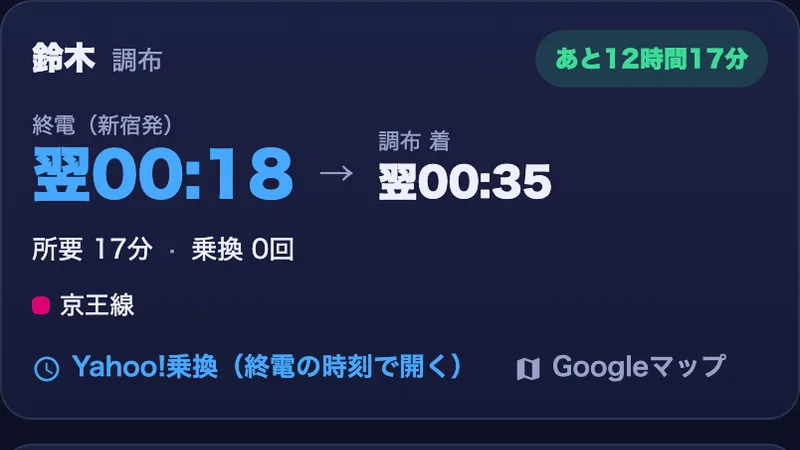
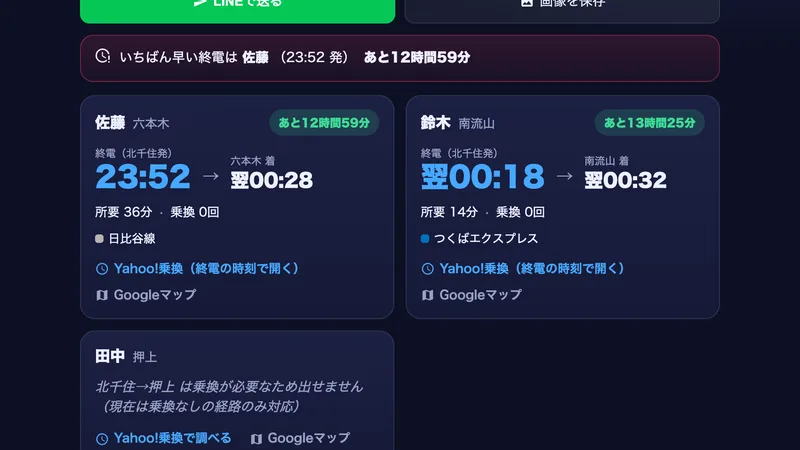
Update: worksの画像を実際のアプリ画面にし、公開リンクを追加
カード画像のうち3件が、内容の伝わらないものだった。実際に
アプリを動かして撮り直した。

  typing-engineer  … CSSを打ち込んでプレビューが組み上がる画面
  shuden-board     … 3人ぶんのシュウデンが並んだボード
  roguelike-game   … ダンジョンの探索画面(ドット絵の実画面)

typing-engineerはローカルにサーバーを立てて実際にプレイし、
残る2件はデプロイ済みの本番から撮った。

あわせて教えてもらった公開先へのリンクを追加した。
  kaidan-video-generator    … YouTubeチャンネル
  shuden-board              … minnano-shuden.com
  roguelike-game            … Amplifyのデモ
  cron-translator-extension … Chromeウェブストア

ストアへのリンク用に store という種別を足している。

イザカヤブロックオとしを1件追加して9件になった。3列×3行で
ちょうど埋まる。

diff --git a/js/works-data.js b/js/works-data.js
@@ -49,6 +49,7 @@ window.WORKS = [
       'FFmpegでの動画合成、YouTubeへのトウコウまでを一気に自動化するシステムです。' +
       '長尺とショート動画の2系トウを同じパイプラインの上で動かしています。',
     links: [
+      { type: 'video', url: 'https://www.youtube.com/channel/UC53lt_Wv9_tw9i_X5Nl964g' },
       { type: 'repo', url: 'https://github.com/kanade0525/kaidan-video-generator' }
     ]
   },
@@ -65,7 +66,9 @@ window.WORKS = [
       '一ランと地図でまとめて表示し、その画面をURLでそのまま共有できます。' +
       'のこり時間を色分けして自動で更新するので「あと何分いられるか」がすぐわかります。' +
       '関東の6事業者に対応しています。',
-    links: []
+    links: [
+      { type: 'demo', url: 'https://minnano-shuden.com/' }
+    ]
   },
   {
     id: 'roguelike-game',
@@ -80,7 +83,26 @@ window.WORKS = [
       'ゲームのルールを持つ部分とPhaserでの表示を分けて、' +
       'ゲームの中身だけを取り出してテストできる形にしています。',
     links: [
+      { type: 'demo', url: 'https://main.dwvswzjen7o0t.amplifyapp.com/' },
       { type: 'repo', url: 'https://github.com/kanade0525/roguelike-game' }
+    ]
+  },
+  {
+    id: 'izakaya-tetris',
+    title: 'イザカヤブロックオとし',
+    subtitle: 'ノみ食いするたびにブロックがオちてくる',
+    period: '2026年',
+    tags: ['Nuxt 3', 'TypeScript', 'Vue', 'Amplify'],
+    image: 'img/works/izakaya-tetris.webp',
+    imageAlt: '色とりどりのブロックでうまったバン面',
+    description:
+      'ゲームオーバーになったバン面から始めます。イザカヤで一品食べるたび、一パイノむたびに' +
+      'ストックが1つたまり、ストックを使うとブロックが1つオちてきます。' +
+      'いちばん下の行をそろえたらクリアです。YouTubeで見かけたアソび方を、そのままアプリにしました。',
+    links: [
+      { type: 'demo', url: 'https://main.d3d78wsrha6lcy.amplifyapp.com/' },
+      { type: 'video', url: 'https://youtu.be/9S2_bQ4ICKI' },
+      { type: 'repo', url: 'https://github.com/kanade0525/izakaya-tetris' }
     ]
   },
   {
@@ -96,6 +118,7 @@ window.WORKS = [
       '読み解くのがメンドウなCron式を、その場でたしかめられます。' +
       '表示中の部分だけを調べる作りにして、うごきがおそくならないようにしています。',
     links: [
+      { type: 'store', url: 'https://chromewebstore.google.com/detail/jieopjdgnkkcioocfkhegoekflngmjnd' },
       { type: 'repo', url: 'https://github.com/kanade0525/cron-translator-extension' }
     ]
   },

diff --git a/js/render.js b/js/render.js
@@ -17,6 +17,7 @@
     repo:    { label: 'コードを見る',   className: 'nes-btn' },
     article: { label: '記事を読む',     className: 'nes-btn is-success' },
     video:   { label: 'ドウガを見る',   className: 'nes-btn is-error' },
+    store:   { label: 'ストアで見る',   className: 'nes-btn is-primary' },
     npm:     { label: 'npm',            className: 'nes-btn is-warning' },
     paper:   { label: 'ロンブンを見る', className: 'nes-btn is-success' }
   };

diff --git a/README.md b/README.md
@@ -111,6 +111,7 @@ links: [
 | `repo` | コードを見る | 標準 |
 | `article` | 記事を読む | 緑 |
 | `video` | ドウガを見る | 赤 |
+| `store` | ストアで見る | 青 |
 | `npm` | npm | 黄 |
 | `paper` | ロンブンを見る | 緑 |
 
